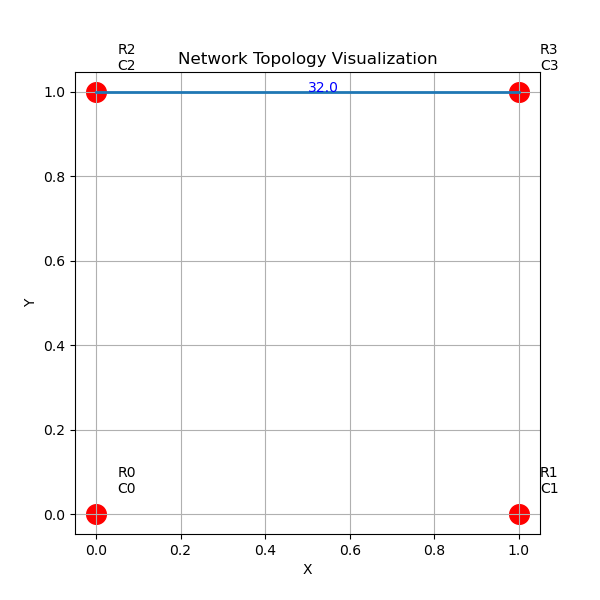
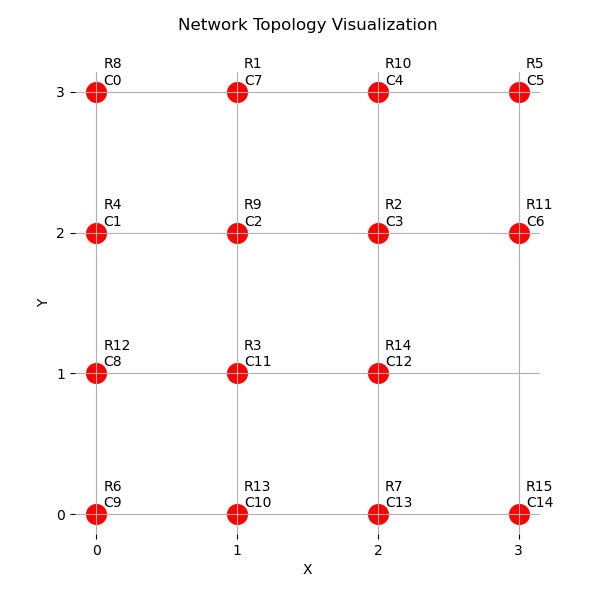
node資料寫進network

diff --git a/interconnect.py b/interconnect.py
@@ -9,8 +9,10 @@ from algorithms import solve
 from algorithms import node_layer
 from algorithms import xy_route_by_coord
 from algorithms import yx_route_by_coord
+from algorithms import assign_router
 from data_structure import Node
-from visualize import visualize_grid
+from data_structure import Network
+from visualize import visualize_network
 
 def parent_child_pairs_by_level(num_nodes: int):
     """
@@ -96,6 +98,28 @@ def main():
     num = 16
     placed, grid = solve(num)
 
+    #建立router core配對結果
+    router_map = assign_router(num)
+    core_to_router = {}
+    for rid, core in router_map.items():
+        core_to_router[core] = rid
+
+    router_to_core = {rid: core for rid, core in router_map.items()}
+
+    #配對結果寫回placed中的Node
+    for rid, core in router_to_core.items():
+        if rid in placed:
+            placed[rid].core_id = core
+
+    #placed結果給network
+    k = int(math.log2(num))     # num = 2^k
+    W = 2 ** ((k + 1) // 2)     # ceil(k/2)
+    H = 2 ** (k // 2)           # floor(k/2)
+    network = Network(W, H)
+
+    for node in placed.values():
+        network.add_existing_node(node)
+
     print("\n\n")
     print("=== Placement Result (1 ~ n layers, leaf included) ===\n")
     for nid in sorted(placed.keys()):
@@ -112,7 +136,9 @@ def main():
         for (p, c), rec in routes[level].items():
             print(f"({p},{c})  XY={rec['XY']}  YX={rec['YX']}")
 
-    visualize_grid(grid)
+
+    visualize_network(network)
+
     
     
 

diff --git a/data_structure/network.py b/data_structure/network.py
@@ -3,14 +3,19 @@ from .node_link import Link
 from typing import List
 
 class Network:
-    def __init__(self):
+    def __init__(self, width, height):
         self.nodes: List[Node] = []
         self.links: List[Link] = []
+        self.width = width
+        self.height = height
 
     def add_node(self, x: int, y: int, router_id: int, core_id: int) -> Node:
         node = Node(x, y, router_id, core_id)
         self.nodes.append(node)
         return node
+    
+    def add_existing_node(self, node: Node):
+        self.nodes.append(node)
 
     def add_link(self, node_u: Node, node_v: Node, bandwidth: float) -> Link:
         link = Link(node_u, node_v, bandwidth)

diff --git a/visualize/visualize_network.py b/visualize/visualize_network.py
@@ -22,9 +22,15 @@ def visualize_network(network):
         label = f"R{node.router_id}\nC{node.core_id}"
         plt.text(node.x + 0.05, node.y + 0.05, label, fontsize=10)
 
-    plt.title("Network Topology Visualization")
+    ax = plt.gca()
+    for spine in ax.spines.values():
+        spine.set_visible(False)
+
+    plt.title("Network Topology Visualization", pad = 30)
     plt.xlabel("X")
     plt.ylabel("Y")
+    plt.xticks(range(network.width + 1))
+    plt.yticks(range(network.height + 1))
     plt.grid(True)
     plt.axis("equal")
     plt.savefig("topology.png")
